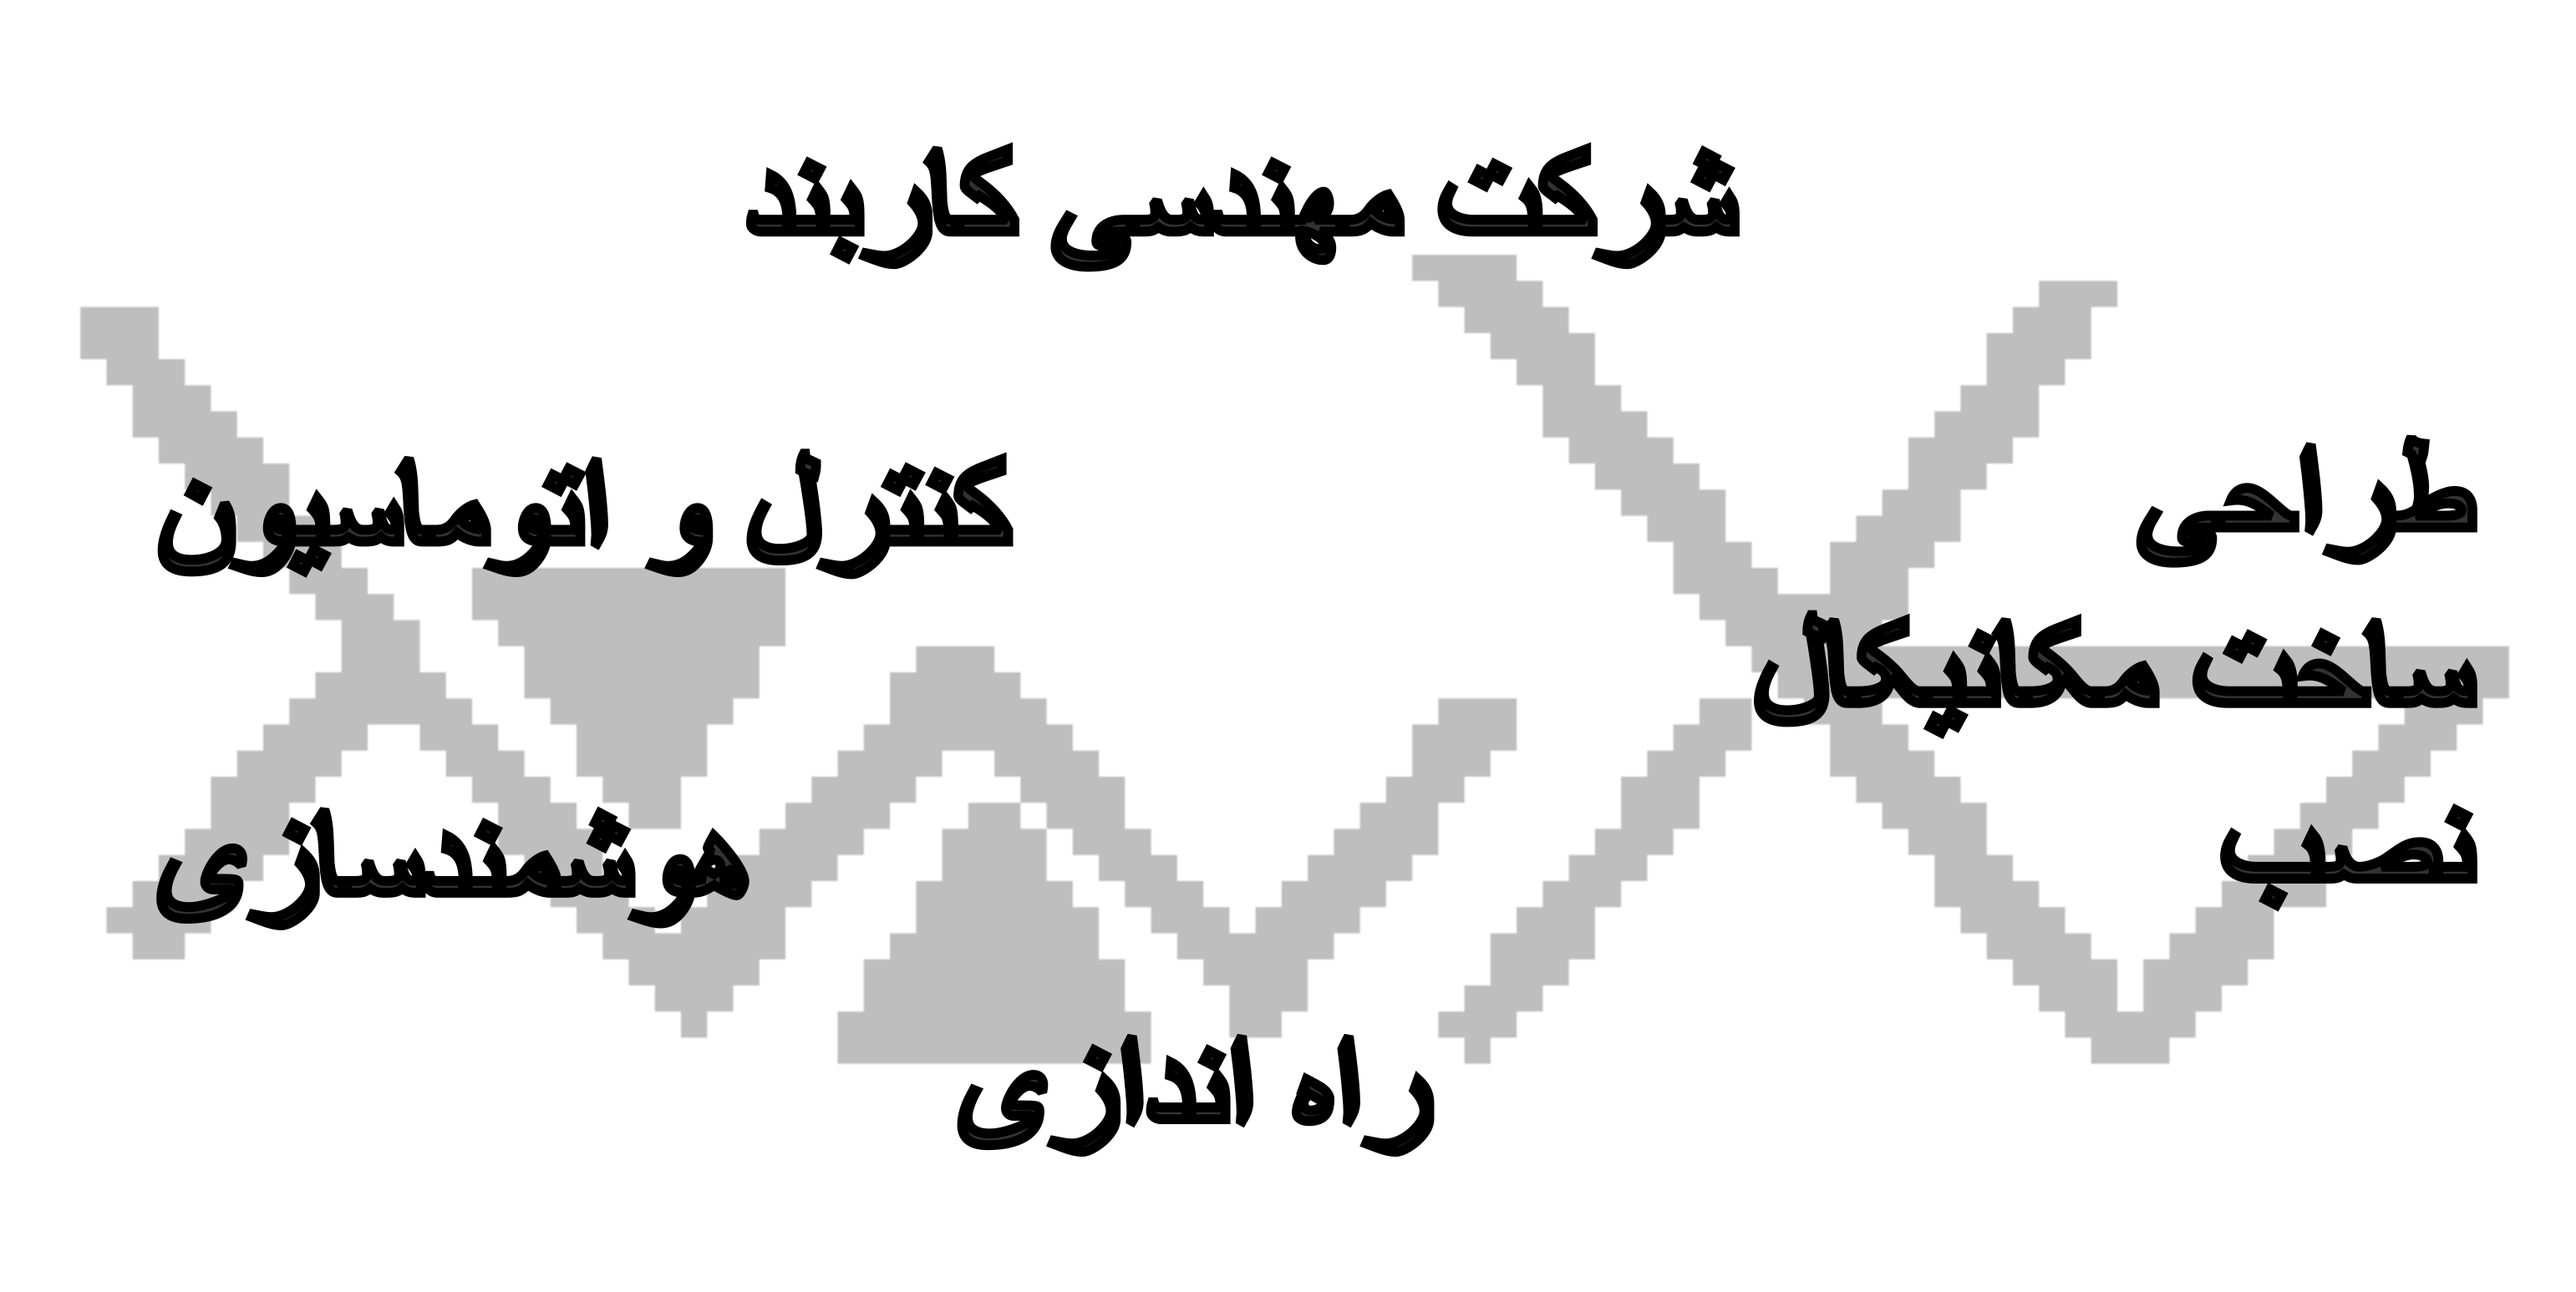
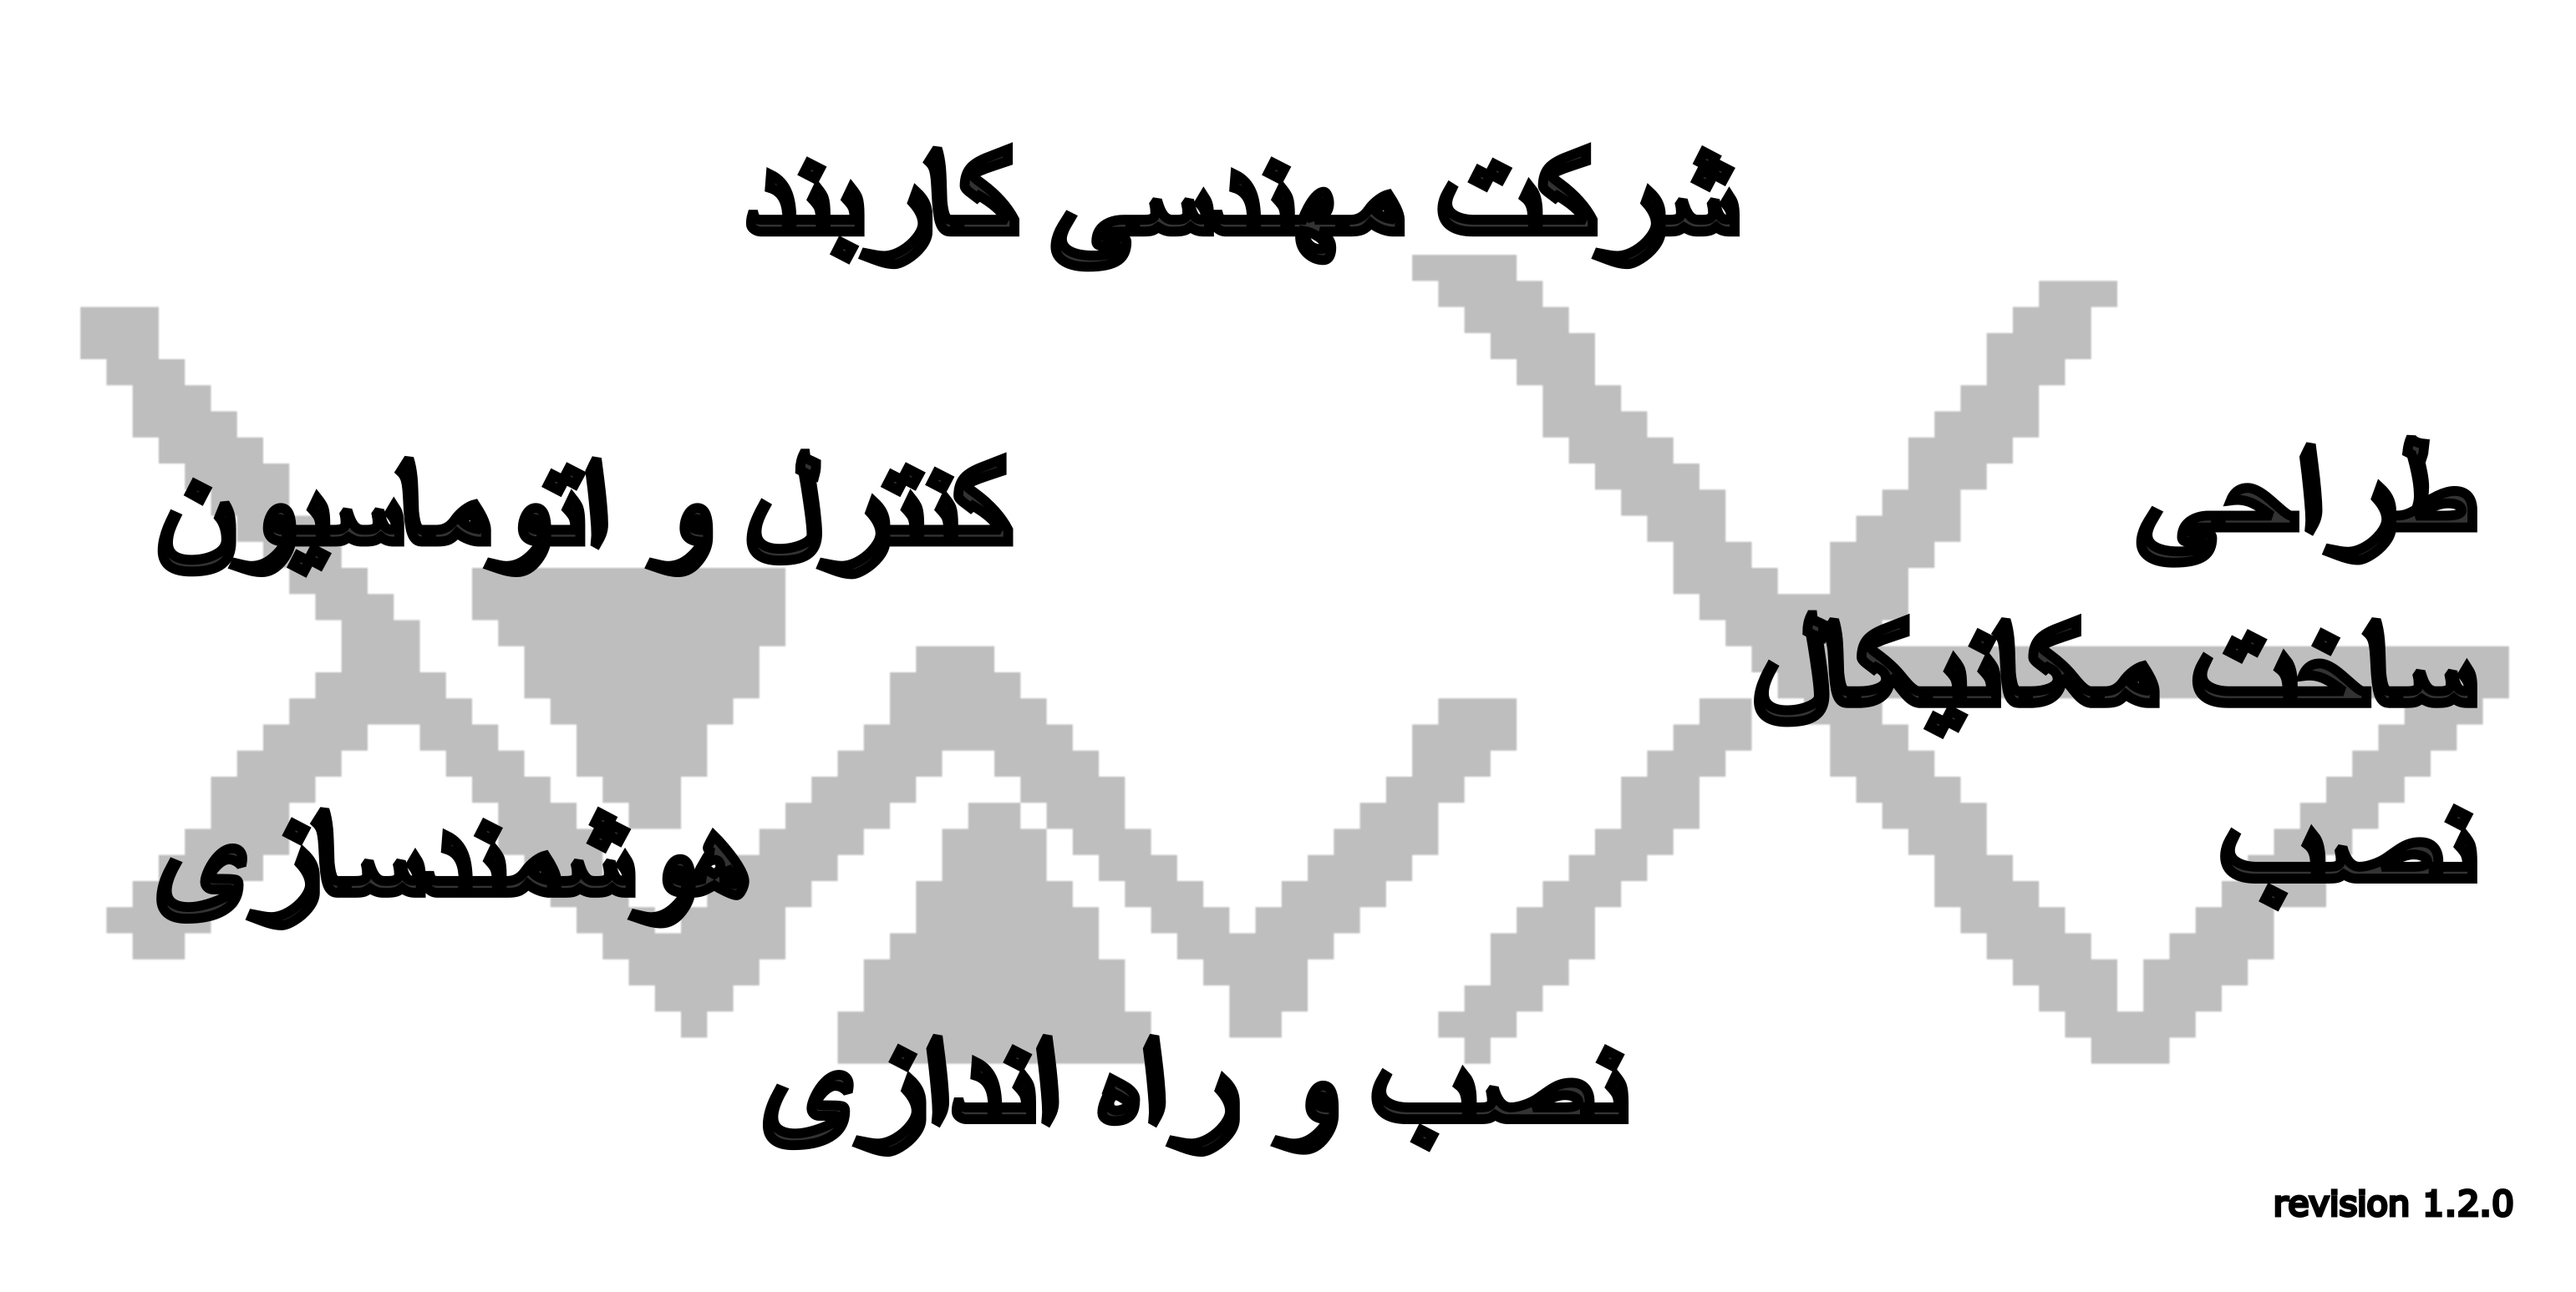
++ - kamangir/bolt#746

Changed region(s): [[0.2802, 0.8067, 0.6539, 0.8998], [0.8719, 0.8998, 0.9653, 0.9619]]

diff --git a/bluer_designs/__init__.py b/bluer_designs/__init__.py
@@ -1,1 +1,1 @@
-VERSION = "3.5.1"
+VERSION = "3.6.1"
